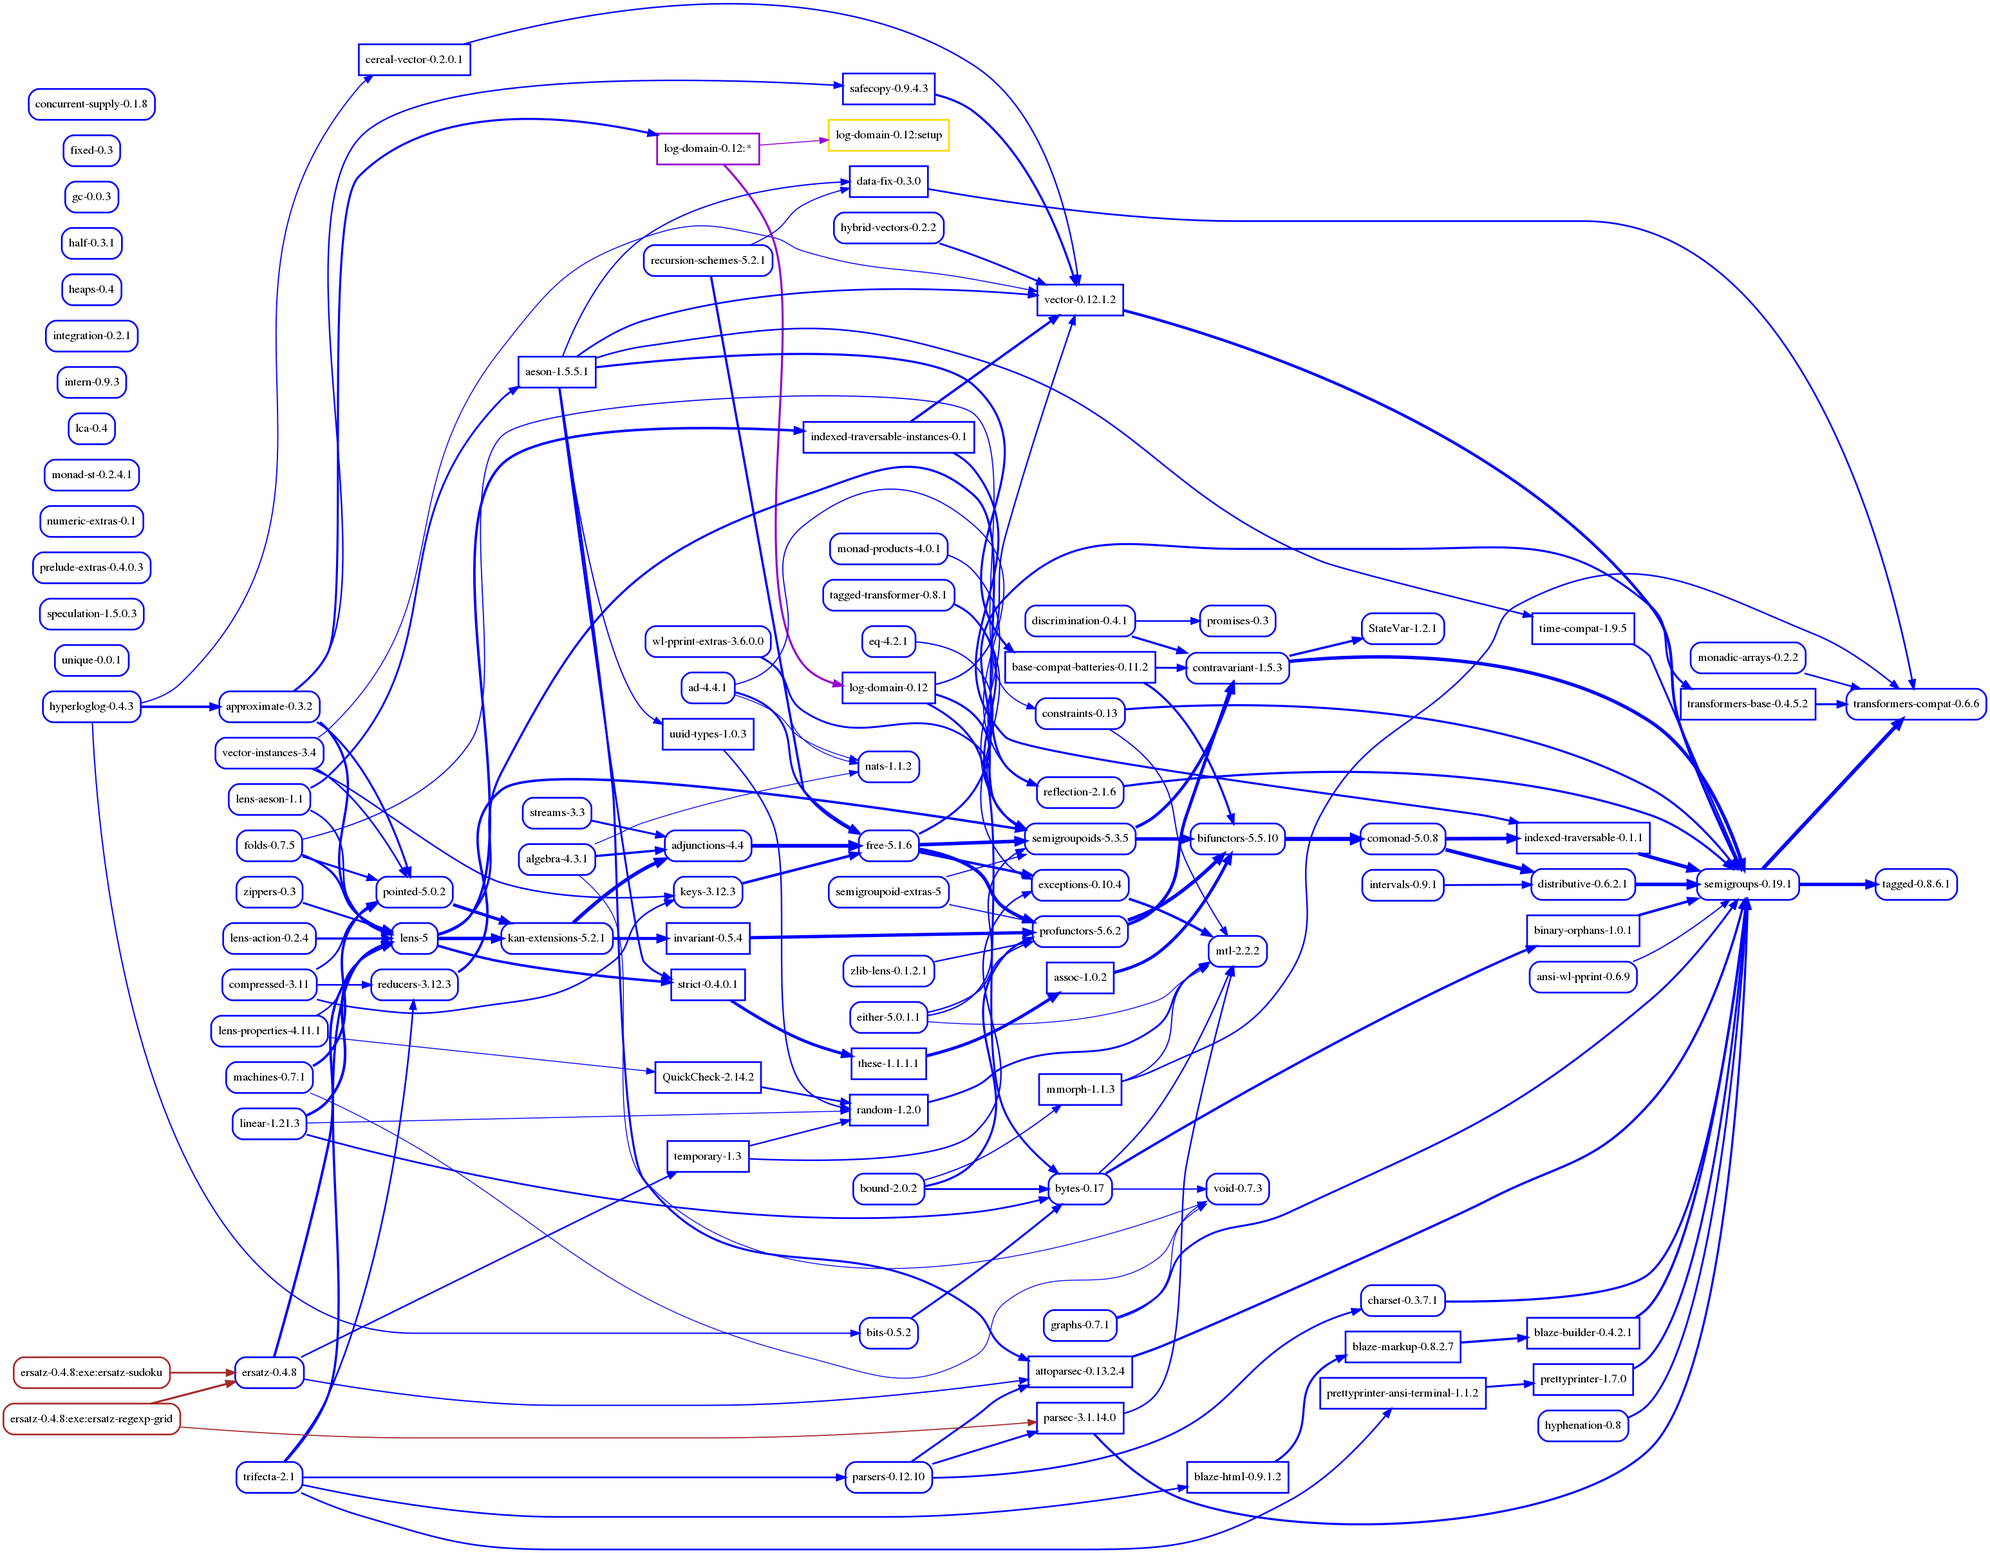
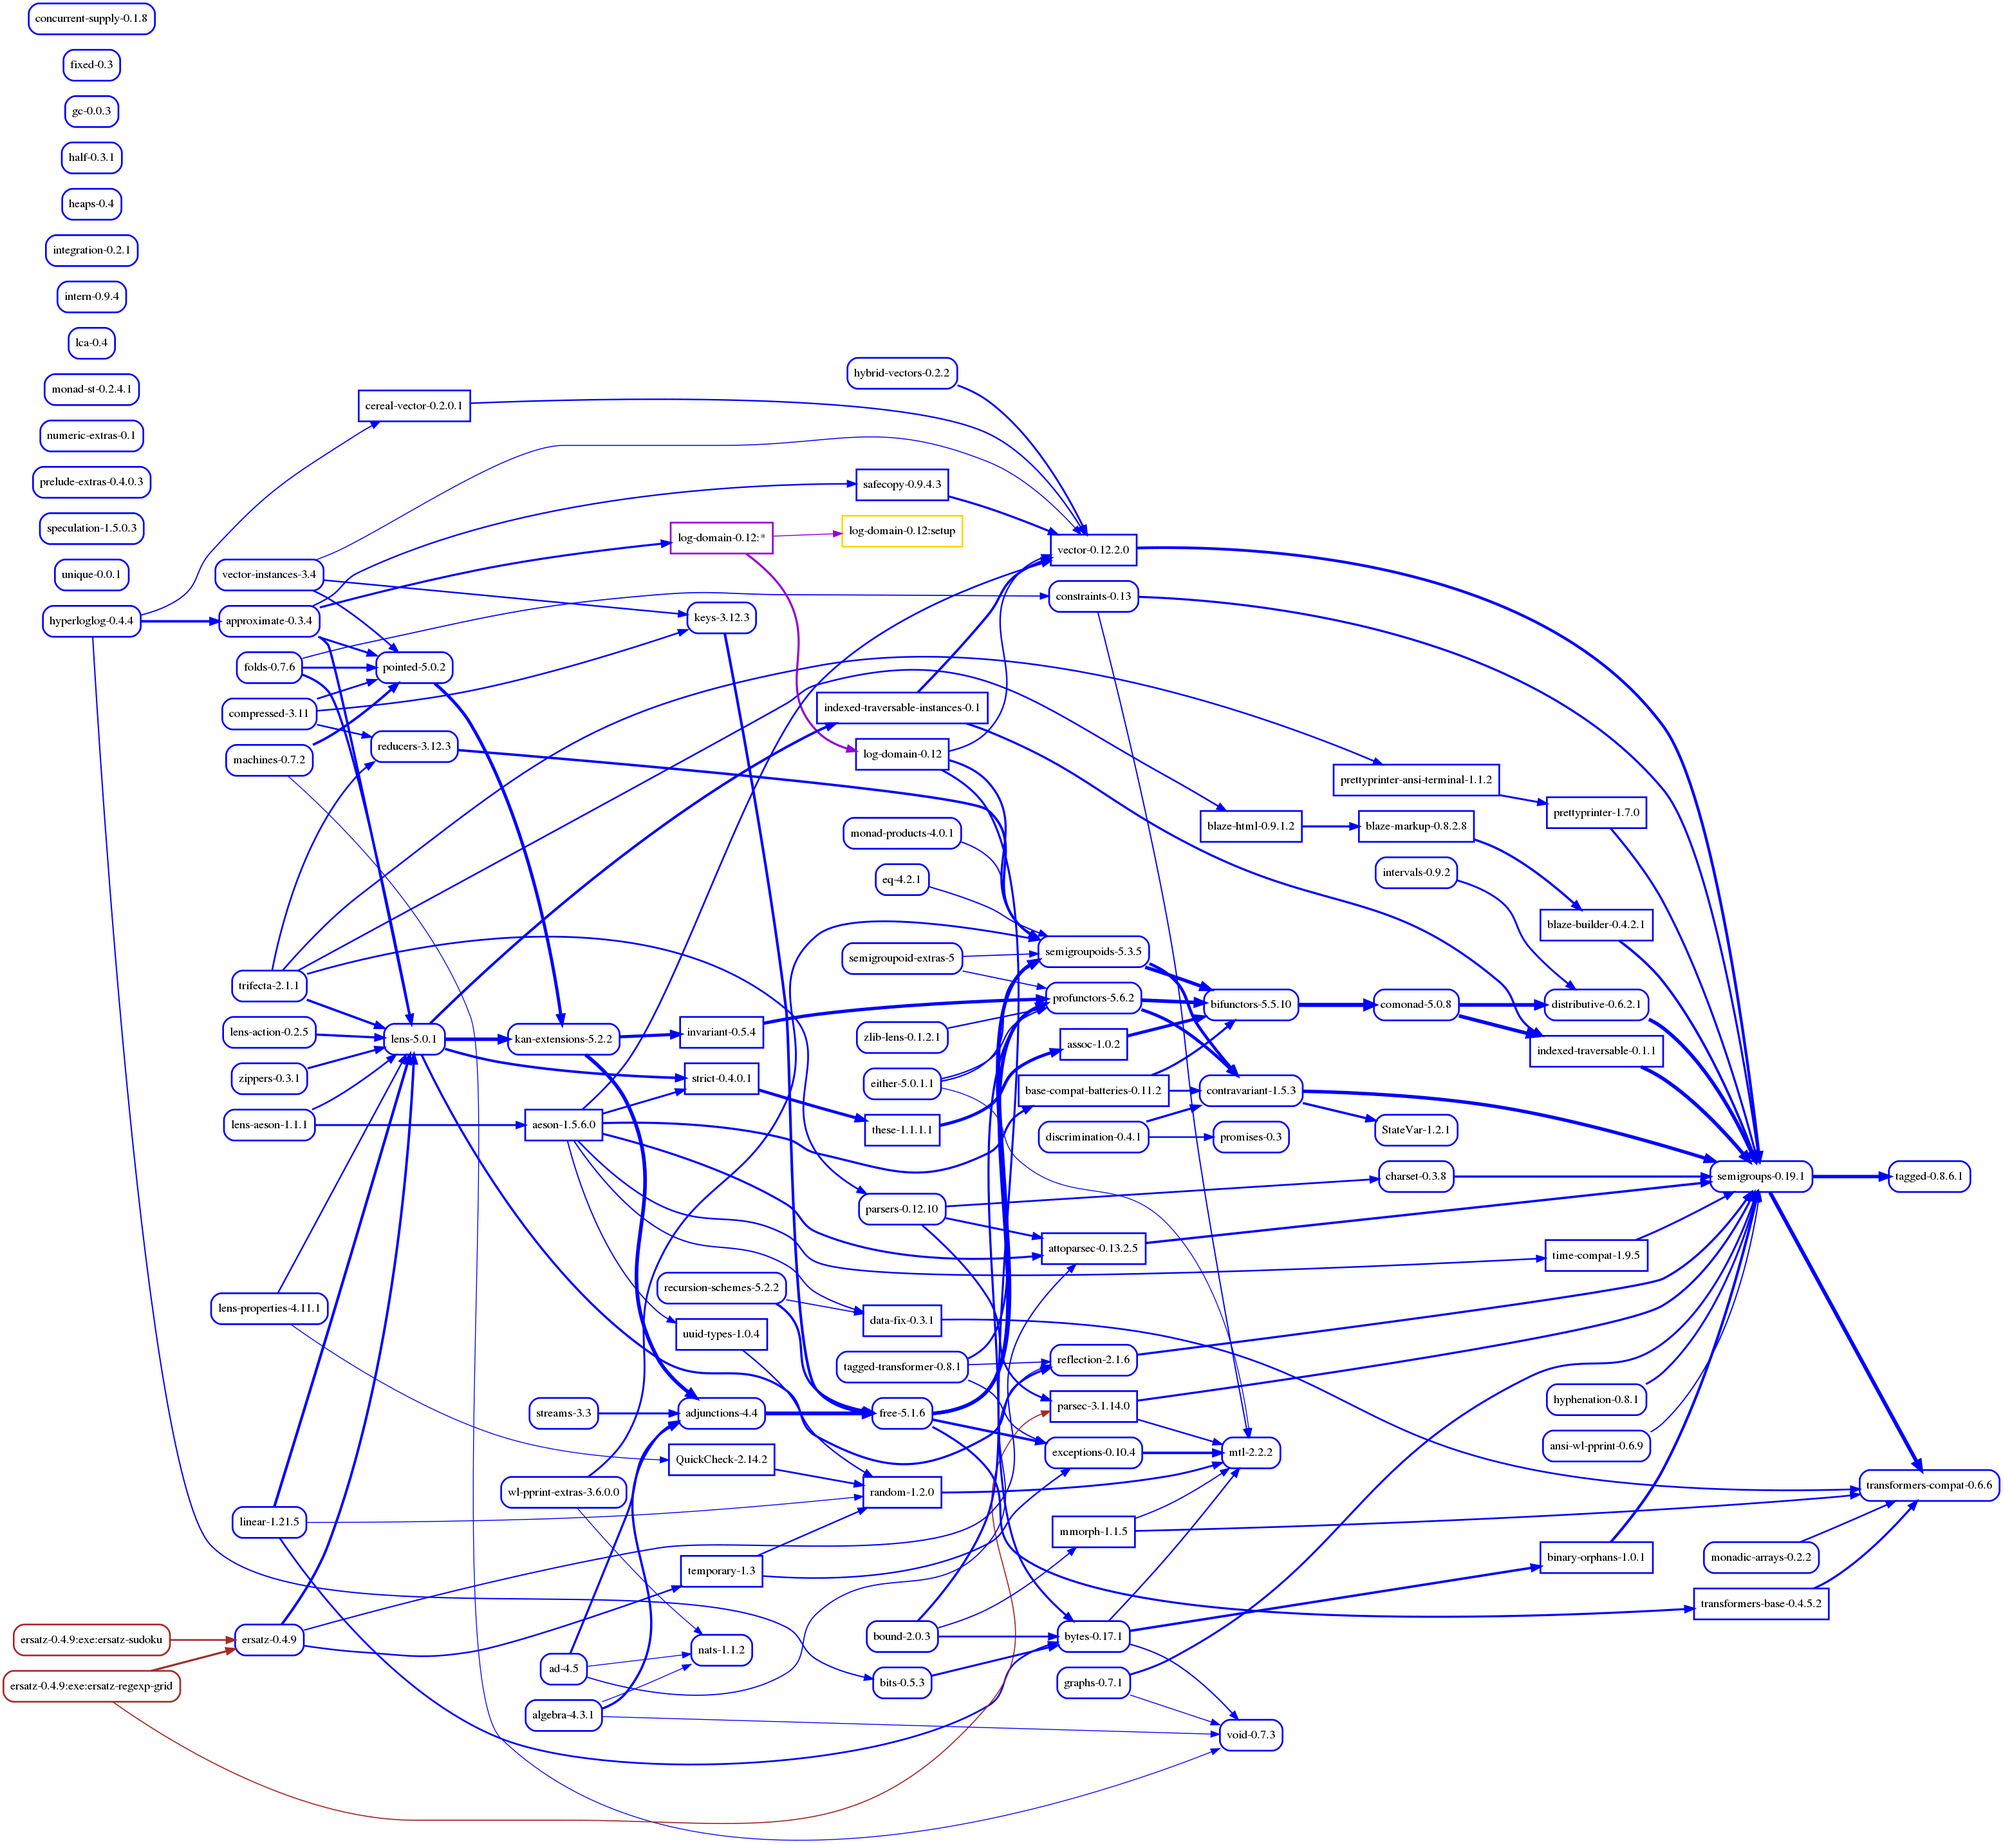
GHC-9.0

diff --git a/README.md b/README.md
@@ -11,9 +11,13 @@ make build
 
 ## Dependency graphs
 
-### GHC-8.10.3
+### GHC-9.0.1
 
-![deps-8.10](https://raw.githubusercontent.com/phadej/acme-kmett/master/deps-8.10.3.png)
+![deps-9.0](https://raw.githubusercontent.com/phadej/acme-kmett/master/deps-9.0.1.png)
+
+### GHC-8.10.4
+
+![deps-8.10](https://raw.githubusercontent.com/phadej/acme-kmett/master/deps-8.10.4.png)
 
 ### GHC-8.8.4
 
